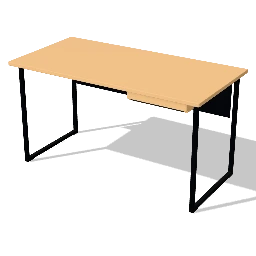
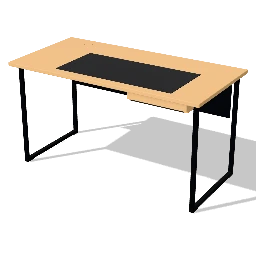
Add a leather pad to the desks, kept within their height

diff --git a/packages/catalog/src/premium/office.ts b/packages/catalog/src/premium/office.ts
@@ -40,6 +40,8 @@ export const PEDESTAL_SLOTS: FinishSlot[] = [
 
 const GLIDE = '#1a1a1a';
 const SCREEN = 'lacquer.black.gloss';
+/** Thickness of a desk pad. */
+const PAD_H = 0.003;
 
 /* --------------------------------------------------------------------- desk */
 
@@ -47,7 +49,8 @@ const SCREEN = 'lacquer.black.gloss';
  * A desk used from +Z: a timber top with a cable grommet on two black steel
  * frames, a slim drawer, a cable tray at the back and a modesty panel.
  * `corner: 'left' | 'right'`: an L-shaped desk whose return runs forward on
- * that side, `depth` in mm for its arms (default 700).
+ * that side, `depth` in mm for its arms (default 700). `pad` (default true): a leather
+ * desk pad, the top then sits 3 mm lower so the desk keeps its height.
  */
 export function buildWorkDesk(entry: CatalogEntry, ctx?: BuildContext): THREE.Object3D {
   const m = new Model(entry, ctx);
@@ -55,7 +58,9 @@ export function buildWorkDesk(entry: CatalogEntry, ctx?: BuildContext): THREE.Ob
   const corner = param<'left' | 'right' | 'none'>(entry, 'corner', 'none');
   const p = new Parts(m, corner === 'right');
   const topT = 0.026;
-  const under = H - topT;
+  const pad = param<boolean>(entry, 'pad', true);
+  const T = pad ? H - PAD_H : H; // top surface
+  const under = T - topT;
   const bar = 0.05;
   const barT = 0.022;
   const inset = 0.05;
@@ -75,8 +80,8 @@ export function buildWorkDesk(entry: CatalogEntry, ctx?: BuildContext): THREE.Ob
     for (const x of [x0 + 0.04, x1 - 0.04]) p.fixed(GLIDE, rbox(0.05, 0.006, bar * 0.6, 0.002, x, 0, z, 1));
   };
   const grommet = (x: number, z: number) => {
-    p.part('frame', new THREE.TorusGeometry(0.03, 0.0035, 6, 24).rotateX(Math.PI / 2).translate(x, H - 0.0035, z));
-    p.fixed(GLIDE, cyl(0.029, 0.029, 0.003, x, H - 0.005, z, 'y', 24));
+    p.part('frame', new THREE.TorusGeometry(0.03, 0.0035, 6, 24).rotateX(Math.PI / 2).translate(x, T - 0.0035, z));
+    p.fixed(GLIDE, cyl(0.029, 0.029, 0.003, x, T - 0.005, z, 'y', 24));
   };
   const drawer = (x: number, z: number, w: number) => {
     const dh = 0.075;
@@ -87,7 +92,7 @@ export function buildWorkDesk(entry: CatalogEntry, ctx?: BuildContext): THREE.Ob
   };
 
   if (corner === 'none') {
-    p.part('top', slabTop(W, D, 0.01, topT, H, 0.004));
+    p.part('top', slabTop(W, D, 0.01, topT, T, 0.004));
     frameX(-W / 2 + inset, -D / 2 + 0.04, D / 2 - 0.06);
     frameX(W / 2 - inset, -D / 2 + 0.04, D / 2 - 0.06);
     // Modesty panel and cable tray at the back.
@@ -95,6 +100,7 @@ export function buildWorkDesk(entry: CatalogEntry, ctx?: BuildContext): THREE.Ob
     p.part('frame', rbox(W * 0.5, 0.06, 0.12, 0.004, -W * 0.08, under - 0.075, -D / 2 + 0.16, 1));
     drawer(W / 2 - inset - 0.25, D / 2 - 0.06, 0.4);
     grommet(-W / 2 + 0.22, -D / 2 + 0.09);
+    if (pad) p.fixed('leather.black', rbox(Math.min(0.9, W * 0.6), PAD_H, Math.min(0.4, D * 0.55), 0.01, W * 0.05, T, D / 2 - 0.06 - Math.min(0.4, D * 0.55) / 2, 2));
     return p.build();
   }
   // L-shaped: the main top along the back, the return forward on the left (mirrored for the right).
@@ -125,6 +131,7 @@ export function buildWorkDesk(entry: CatalogEntry, ctx?: BuildContext): THREE.Ob
   p.part('frame', rbox(0.006, 0.26, D - dd - inset - 0.06, 0.002, -W / 2 + 0.08, under - 0.3, (-D / 2 + dd + D / 2 - inset) / 2 - 0.02, 1));
   drawer(W / 2 - inset - 0.25, -D / 2 + dd - 0.06, 0.4);
   grommet(-W / 2 + 0.16, -D / 2 + 0.16);
+  if (pad) p.fixed('leather.black', rbox(Math.min(0.9, W * 0.45), PAD_H, Math.min(0.4, dd * 0.55), 0.01, W * 0.12, T, -D / 2 + dd - 0.06 - Math.min(0.4, dd * 0.55) / 2, 2));
   return p.build();
 }
 
